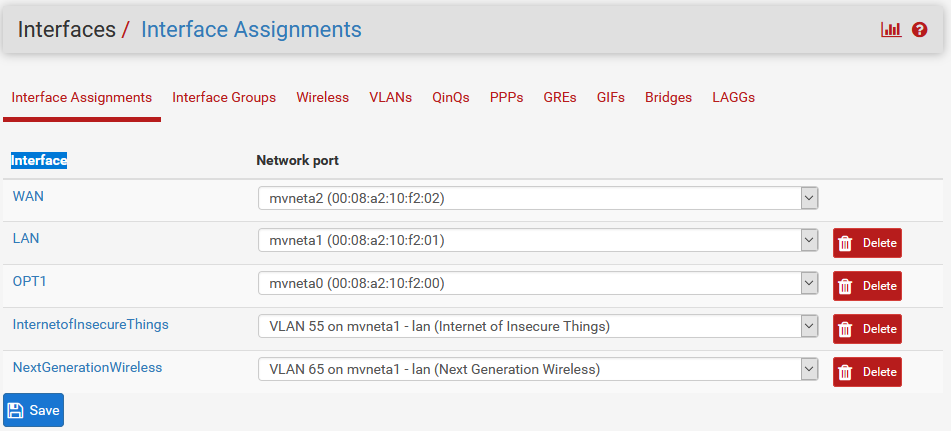
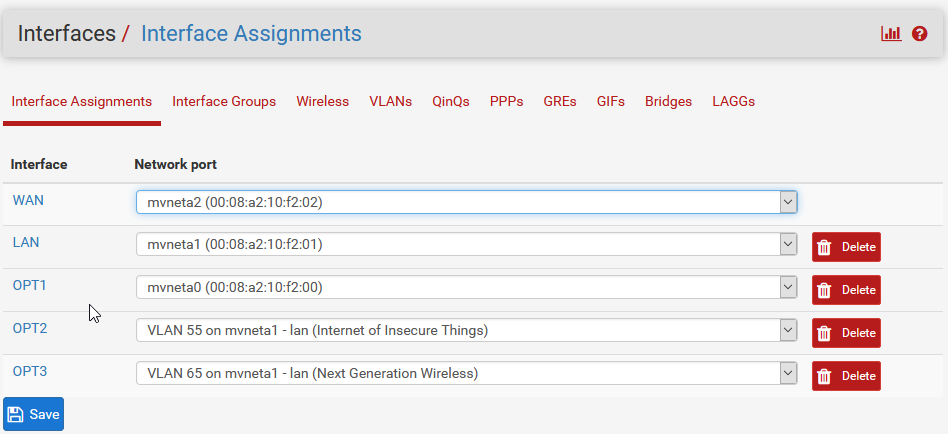
VLAN 55

diff --git a/README.md b/README.md
@@ -1,52 +1,67 @@
 # Netgate-SG-3100
 
+
 ## Configuration Setting for Netgate SG-3100
 
----
+--- 
 
-If you want to embed images, this is how you do it:
+### **System > General Setup**
 
-![Image of Yaktocat](https://github.com/cool1two/Netgate-SG-3100/blob/n00000001/images/yaktocat.png)
+#### *Items Modified From Default*
 
----
+    1. Hostname = Gateway
+    2. Domain = Workgroup
+    3. DNS Server = [ Pihole Address(s) ]
+    4. DNS Server Override = Unchecked
+    5. Disable DNS Forwarder = Checked
 
-## System > General Setup
-
-### Items Modified From Default
-
-1. Hostname = Gateway
-2. Domain = Workgroup
-3. DNS Server = [ Pihole Address(s) ]
-4. DNS Server Override = Unchecked
-5. Disable DNS Forwarder = Checked
-
-![SG-3100 System > General Setup ](https://github.com/cool1two/Netgate-SG-3100/blob/n00000001/images/System-General-Setup.png)
+    ![SG-3100 System > General Setup ](https://github.com/cool1two/Netgate-SG-3100/blob/n00000001/images/System-General-Setup.png)
 
 ---
 
-## Interfaces > VLANs
+### **Interfaces > VLANs**
 
-### Items Modified From Default
+#### *Items Modified From Default*
 
-1. Parent Interface = Lan
-2. VLAN Tag = 55
-3. Description = Internet of Insecure Things.
+    1. Parent Interface = Lan
+    2. VLAN Tag = 55
+    3. Description = Internet of Insecure Things.
 
-![SG-3100 Interfaces > Vlan ](https://github.com/cool1two/Netgate-SG-3100/blob/n00000001/images/Interfaces-Vlan-55.png)
+    ![SG-3100 Interfaces > Vlan ](https://github.com/cool1two/Netgate-SG-3100/blob/n00000001/images/Interfaces-Vlan-55.png)
 
-#### Repeat for Vlan 65
+#### *Repeat for Vlan 65*
 
-1. Parent Interface = Lan
-2. VLAN Tag = 55
-3. Description = Next Generation Wireless.
+    1. Parent Interface = Lan
+    2. VLAN Tag = 55
+    3. Description = Next Generation Wireless.
 
-![SG-3100 Interfaces > Vlan ](https://github.com/cool1two/Netgate-SG-3100/blob/n00000001/images/Interfaces-Vlan-65.png)
+    ![SG-3100 Interfaces > Vlan ](https://github.com/cool1two/Netgate-SG-3100/blob/n00000001/images/Interfaces-Vlan-65.png)
 
-## Interfaces > Interface Assignments
+### **Interfaces > Interface Assignments**
 
-### Items Modified From Default
+#### *Items Modified From Default*
 
-1. Modify Interface > Network Port = OPT2 > VLAN 55
-1. Modify Interface > Network Port = OPT3 > VLAN 65
+    1. Modify Interface Assignments > Interfaces OPT2 > Network Port = VLAN 55
+    2. Modify Interface Assignments > Interfaces OPT3 > Network Port = VLAN 65
 
-![SG-3100 Interfaces > Vlan ](https://github.com/cool1two/Netgate-SG-3100/blob/n00000001/images/Interfaces-Interface-Assignments.png)
+    ![SG-3100 Interfaces > Vlan ](https://github.com/cool1two/Netgate-SG-3100/blob/n00000001/images/Interfaces-Interface-Assignments.png)
+
+### **Interfaces > Interface Assignments > OPT2**
+
+#### *Items Modified From Default*
+
+    1. Enable = Checked
+    2. Description = Interface of Insecure Things.
+    3. IPv4 Address = 192.168.55.1
+
+    ![SG-3100 Interfaces > Vlan ](https://github.com/cool1two/Netgate-SG-3100/blob/n00000001/images/Interfaces_OPT2_VLAN.55.png)
+
+### **Interfaces > Interface Assignments > OPT3**
+
+#### *Items Modified From Default*
+
+    1. Enable = Checked
+    2. Description = Next Generation Wireless.
+    3. IPv4 Address = 192.168.65.1
+
+    ![SG-3100 Interfaces > Vlan ](https://github.com/cool1two/Netgate-SG-3100/blob/n00000001/images/Interfaces_OPT2_VLAN.55.png)
